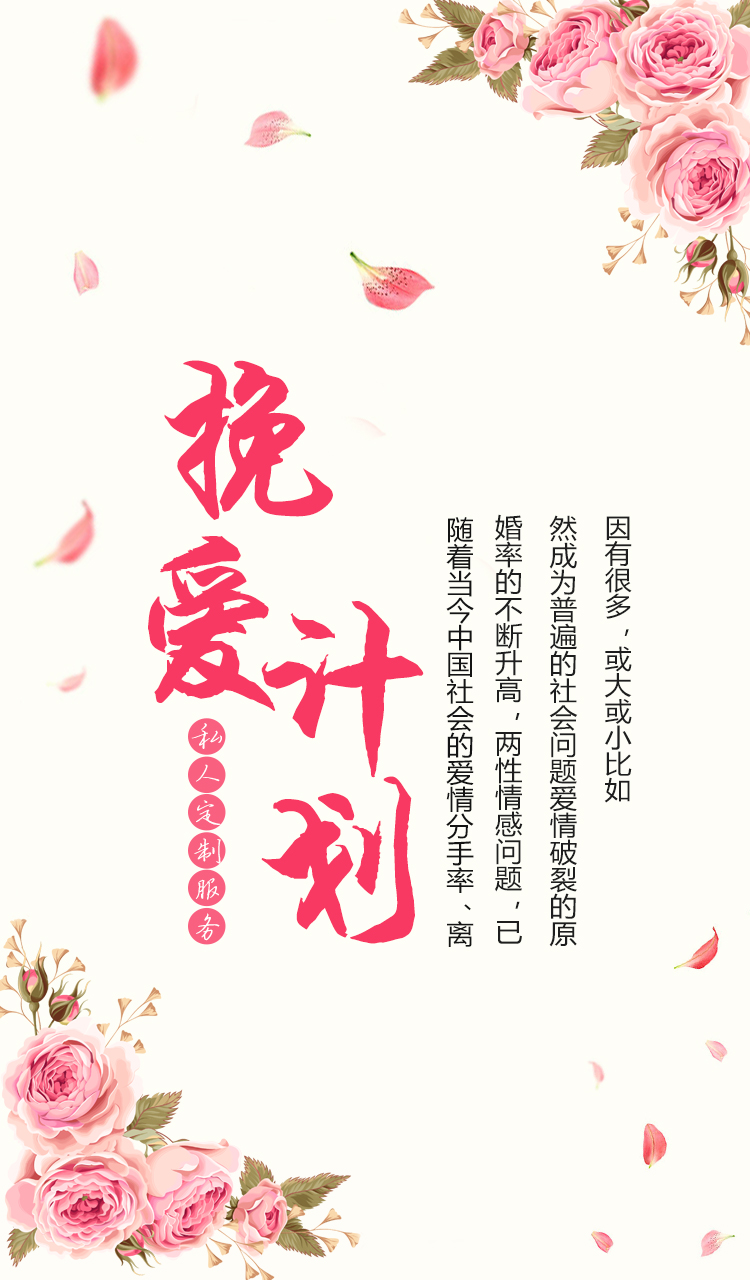
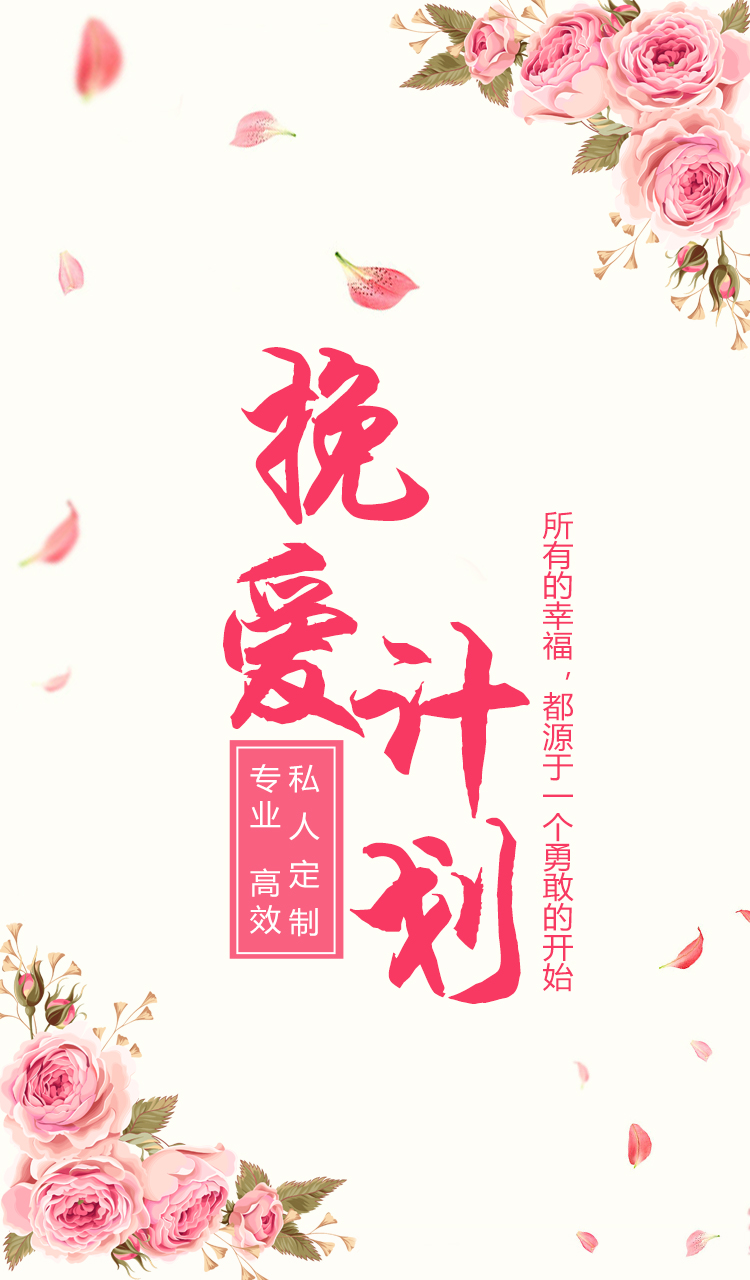
重做

diff --git a/wechat/save-love-plan.html b/wechat/save-love-plan.html
@@ -23,6 +23,19 @@
     <div class="preface-img">
         <div class="preface-btn"></div>
     </div>
+    <div class="split-line"></div>
+    <div class="inner">
+        <div class="title">
+            <span class="title-line"></span>
+            <p>“挽爱计划”私人定制服务</p>
+            <span class="title-line"></span>
+        </div>
+        <div class="para">
+            <p>
+                随着当今中国社会的爱情分手率、离婚率的不断升高，两性情感问题，已然成为普遍的社会问题爱情破裂的原因有很多，或大或小比如：
+            </p>
+        </div>
+    </div>
     <div class="preface-icons">
         <div class="row">
             <div class="item">
@@ -68,6 +81,11 @@
     <div class="module">
         <div class="split-line"></div>
         <div class="inner module-01">
+            <div class="title">
+                <span class="title-line"></span>
+                <p>当今社会情感现状</p>
+                <span class="title-line"></span>
+            </div>
             <div class="txt">
                 <p class="indent">
                     橘子情感多年来的情感行业经验，总结了上万案例，结果表示92.6%的情感破裂问题，实际上都能够得到解决，通过科学合理的方法，最终挽回爱情。但遗憾的是，只有不到7%的人自己挽回成功。绝大部分人因为不了解这个行业，用了错误的方式，错失了原有的幸福。
@@ -239,18 +257,18 @@
                     </div>
                     <div class="item">
                         <div class="icon"></div>
-                        <p class="mentor">嘉伟导师</p>
+                        <p class="mentor">千芜导师</p>
                     </div>
 
                 </div>
                 <div class="row">
                     <div class="item">
                         <div class="icon"></div>
-                        <p class="mentor">嘉伟导师</p>
+                        <p class="mentor">路加导师</p>
                     </div>
                     <div class="item">
                         <div class="icon"></div>
-                        <p class="mentor">嘉伟导师</p>
+                        <p class="mentor">青恩导师</p>
                     </div>
                 </div>
             </div>

diff --git a/wechat/team.html b/wechat/team.html
@@ -52,24 +52,24 @@
                 <div class="row">
                     <div class="pic"><img src="images/team/module01-pic-02.png" alt=""></div>
                     <div class="txt-group">
-                        <p class="title">专注</p>
+                        <p class="title">专业</p>
                         <p class="para">
-                            每一个学员的计划，都会经过责任导师组严谨全面的分析，集中讨论后，给出风险最小、效率最高的执行方案
+                            每一位导师、助教，均为资深全职人员高效指导学员用户。用户出现问题，将在第一时间得到完善解决
                         </p>
                         <p class="des red">
-                            每位用户严谨对待
+                            内部理论系统研发
                         </p>
                     </div>
                 </div>
                 <div class="row">
                     <div class="pic"><img src="images/team/module01-pic-03.png" alt=""></div>
                     <div class="txt-group">
-                        <p class="title">专注</p>
+                        <p class="title">专心</p>
                         <p class="para">
-                            每一个学员的计划，都会经过责任导师组严谨全面的分析，集中讨论后，给出风险最小、效率最高的执行方案
+                            多年的执教，以及实践指导中，导师团队不断根据经验，从两性心理角度出发，总结整理更多高效理论和方法
                         </p>
                         <p class="des red">
-                            每位用户严谨对待
+                            高效的办公状态
                         </p>
                     </div>
                 </div>

diff --git a/wechat/css/save-love-plan.css b/wechat/css/save-love-plan.css
@@ -74,11 +74,24 @@
 
 
 /** preface icons and texts*/
+.preface {
+    background-color: #fefdf8;
+}
+
+.preface .split-line {
+    margin-top: .56rem;
+    margin-bottom: .4rem;
+}
+
+.preface .para {
+    text-indent: .55rem;
+    padding: 0 .15rem;
+}
+
 .preface .preface-icons {
     display: flex;
     flex-direction: column;
     justify-content: center;
-    background-color: #fefdf8;
 
     padding: 0 .2rem;
 }
@@ -175,6 +188,7 @@
 /** module 01 area */
 .module-01 .txt {
     padding: 0 .31rem;
+    /*text-align: justify;*/
     letter-spacing: .02rem;
 }
 .module-01 .txt .indent:last-child {
@@ -230,6 +244,33 @@
 
 
 /** module 02 area */
+/* title area */
+/*.module-02 .title {*/
+    /*width: 100%;*/
+    /*display: flex;*/
+    /*justify-content: center;*/
+    /*align-items: center;*/
+
+    /*margin-bottom: .12rem;*/
+/*}*/
+/*.module-02 .title p {*/
+    /*font-size: .3rem;*/
+    /*font-weight: bold;*/
+    /*height: .7rem;*/
+    /*line-height: .7rem;*/
+    /*padding: 0 .1rem;*/
+/*}*/
+/*.title-line {*/
+    /*display: inline-block;*/
+    /*background: url("../images/save-love-plan/title-line.png") no-repeat center center;*/
+    /*-webkit-background-size: cover;*/
+    /*background-size: cover;*/
+
+    /*width: .37rem;*/
+    /*height: .02rem;*/
+/*}*/
+/* title area */
+
 /* para area */
 .module-02 .para p {
     padding: 0 .44rem;
